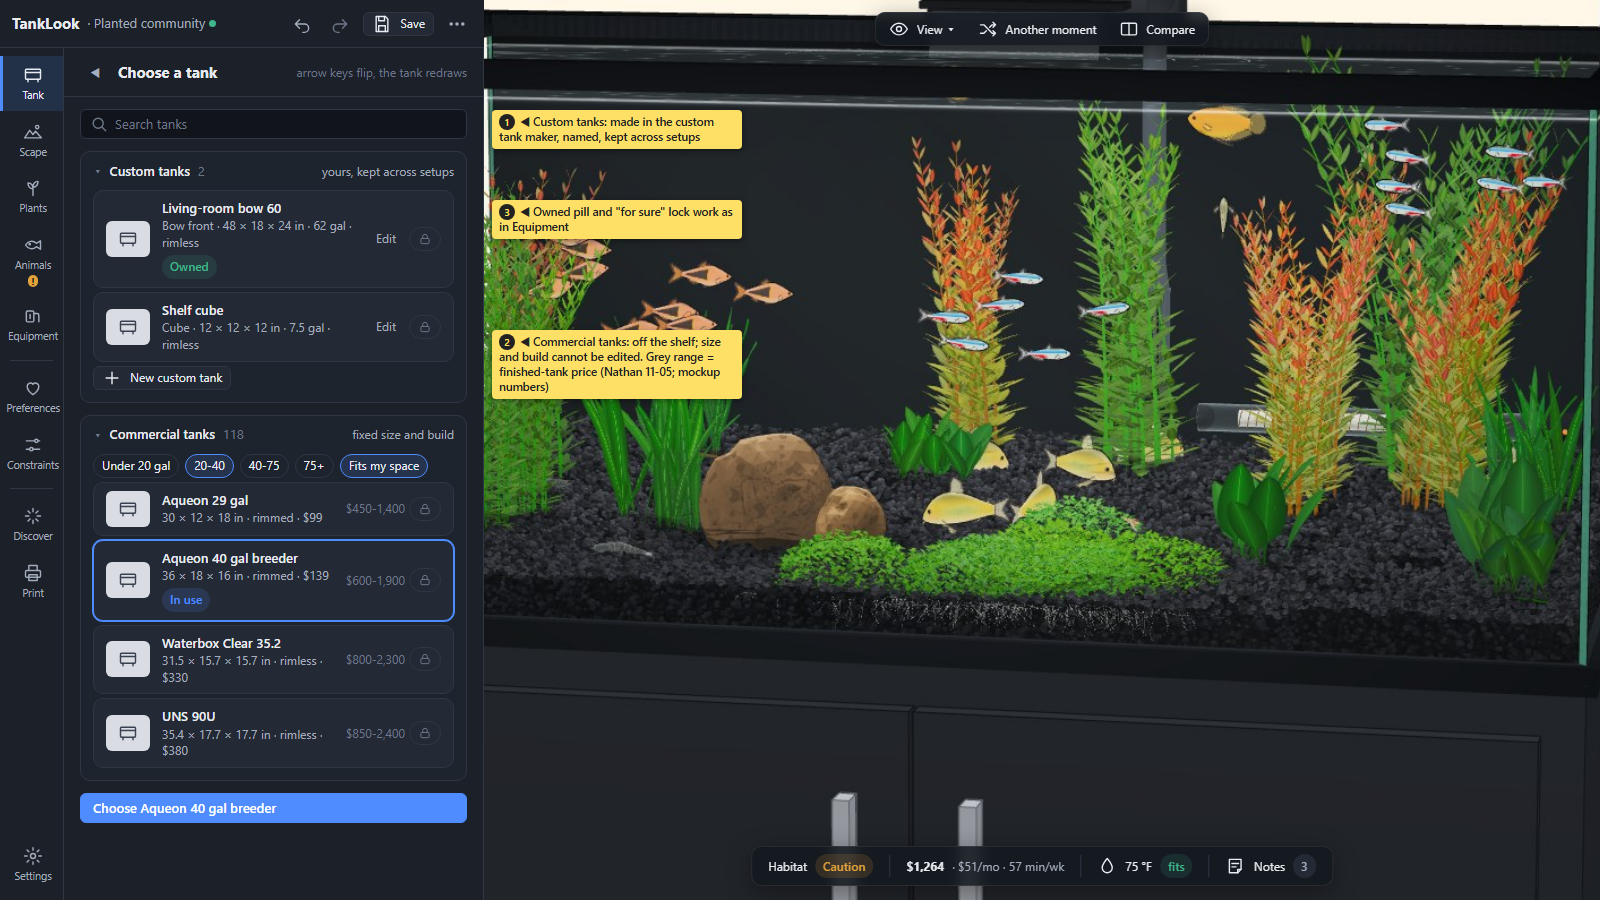
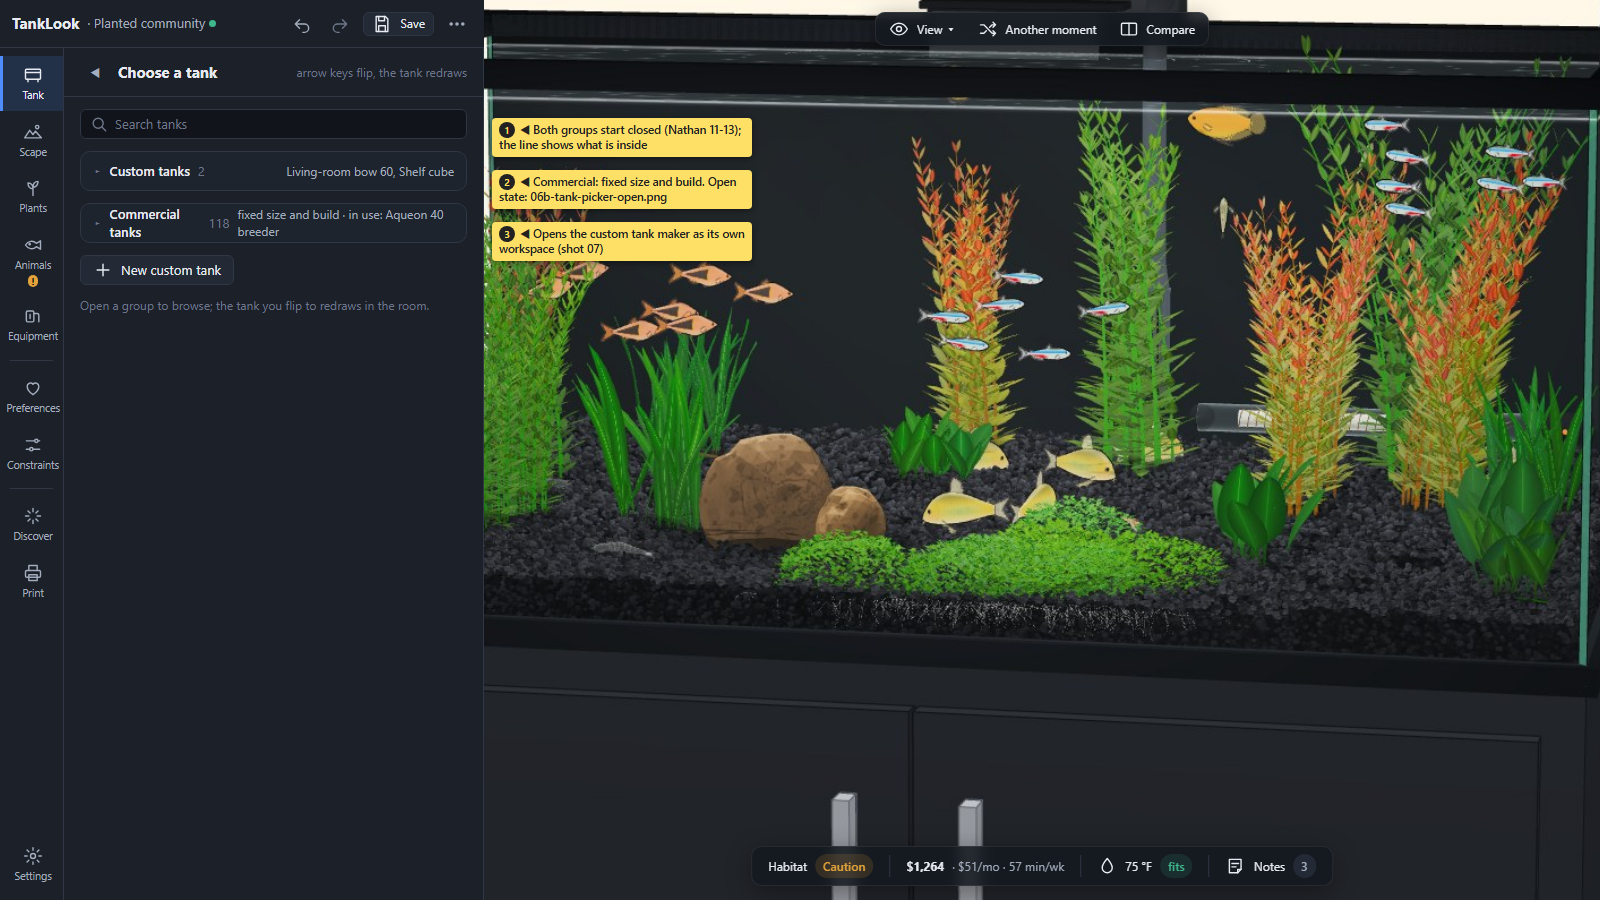
UI2: tank picker groups start closed; custom tank maker as its own workspace with price override (Nathan 11-13)
Shot 06 redone collapsed (open state kept as 06b); shot 07 redone as a separate workspace
with a real empty bow-tank render (render-empty-tank.mjs, dev server, not app code),
dimension labels, estimate with a how-line and Use my own price. Doc: maker row in 2a,
price home in 3, P9 maker scratch scene / priceUsd / estimate follow-up, decision 13.

diff --git a/research/design/ui2/07-custom-tank-maker.html b/research/design/ui2/07-custom-tank-maker.html
@@ -1,46 +1,61 @@
 <!doctype html>
-<html lang="en"><head><meta charset="utf-8"><title>UI2 mockup: custom tank maker</title>
+<html lang="en"><head><meta charset="utf-8"><title>UI2 mockup: custom tank maker (own workspace)</title>
 <link rel="stylesheet" href="tokens.css">
 <style>
-  .app { display: grid; height: 100vh; grid-template-columns: var(--rail-w) 420px 1fr; grid-template-rows: var(--header-h) 1fr; grid-template-areas: "head head view" "rail panel view"; }
-  .app > header { grid-area: head; } .app > .rail { grid-area: rail; } .app > .panel { grid-area: panel; } .app > .viewer { grid-area: view; }
-  .foot { display: flex; gap: var(--s2); padding: var(--s3) var(--s4); border-top: 1px solid var(--line); }
+  .ws { display: grid; height: 100vh; grid-template-columns: 400px 1fr; grid-template-rows: var(--header-h) 1fr; grid-template-areas: "bar bar" "panel view"; }
+  .wsbar { grid-area: bar; display: flex; align-items: center; gap: var(--s3); padding: 0 var(--s4); background: var(--bg-panel); border-bottom: 1px solid var(--line); }
+  .wsbar h1 { font-size: var(--fs-lg); margin: 0; }
+  .ws > .panel { grid-area: panel; }
+  .stage { grid-area: view; position: relative; background: #d9dce1 url(empty-bow-tank.jpg) center / 92% auto no-repeat; }
+  .dim { position: absolute; background: #1b2029; color: #fff; font: 600 13px/1 var(--font); padding: 5px 8px; border-radius: 4px; box-shadow: var(--shadow); white-space: nowrap; }
+  .dim small { color: var(--text-2); font-weight: 400; margin-left: 4px; }
+  .stats { position: absolute; left: 50%; bottom: 18px; transform: translateX(-50%); display: flex; gap: var(--s2); }
+  .stats .check { background: var(--glass); }
+  .price .row { grid-template-columns: 1fr auto; }
 </style></head>
 <body>
 <script src="icons.js"></script><script src="shell.js"></script>
-<div class="app" id="app"></div>
+<div class="ws" id="app"></div>
 <script>
 const sl = (l, v, p) => `<div class="row"><span class="lbl">${l}</span><input class="slider" type="range" value="${p}"><span class="val">${v}</span></div>`;
-document.getElementById('app').innerHTML = apphead() + rail('tank', {animals: '!'}) + `
+document.getElementById('app').innerHTML = `
+<div class="wsbar"><h1>Custom tank maker</h1><span class="hint">Your setup "Planted community" is not touched until you save</span><span style="flex:1"></span>
+  <button class="btn ghost">${I('eye')} Preview in my setup</button><button class="btn">Cancel</button><button class="btn">Save to my tanks</button><button class="btn primary">Save and use in this setup</button></div>
 <section class="panel">
-  <div class="sec-head"><button class="btn icon ghost sm" title="Back">&#9664;</button><h2>New custom tank</h2><span class="hint">started blank</span></div>
   <div class="sec-body">
-    <div class="row"><span class="lbl">Name</span><input class="input" value="Living-room bow 60" style="width:100%"><span></span></div>
+    <div class="row"><span class="lbl">Name</span><input class="input" value="Living-room bow 75" style="width:100%"><span></span></div>
     <div class="group open"><div class="gh">Shape</div><div class="gb">
       <div class="seg full"><button>Box</button><button class="on">Bow</button><button>Corner</button><button>Cube</button><button>More &#9662;</button></div>
     </div></div>
-    <div class="group open"><div class="gh">Size <span class="sum">62 gal &middot; about 690 lb filled</span></div><div class="gb">
-      ${sl('Length', '48 in', 58)}${sl('Depth', '18 in', 40)}${sl('Height', '24 in', 55)}${sl('Bow depth', '3 in', 30)}
+    <div class="group open"><div class="gh">Size <span class="sum">75 gal</span></div><div class="gb">
+      ${sl('Length', '48 in', 58)}${sl('Depth', '16 in', 36)}${sl('Height', '24 in', 55)}${sl('Bow depth', '3 in', 30)}
     </div></div>
-    <div class="group open"><div class="gh">Glass and rim</div><div class="gb">
-      <div class="row"><span class="lbl">Glass</span><div class="seg"><button>Float</button><button class="on">Low-iron</button></div><span></span></div>
+    <div class="group open"><div class="gh">Glass and rim <span class="sum">float &middot; rimmed</span></div><div class="gb">
+      <div class="row"><span class="lbl">Glass</span><div class="seg"><button class="on">Float</button><button>Low-iron</button></div><span></span></div>
       ${sl('Thickness', '3/8 in', 60)}
-      <div class="row"><span class="lbl">Rim</span><div class="seg"><button>Rimmed</button><button class="on">Rimless</button></div><span></span></div>
-      <div class="hint">48 x 24 in rimless needs at least 3/8 in glass.</div>
+      <div class="row"><span class="lbl">Rim</span><div class="seg"><button class="on">Rimmed</button><button>Rimless</button></div><span></span></div>
     </div></div>
-    <div class="card" style="grid-template-columns:1fr auto;align-items:center"><div><div class="t">Build cost estimate</div><div class="m">custom glass, low-iron, rimless</div></div><span class="big" style="font-size:var(--fs-lg)">$780</span></div>
-    <label class="row" style="grid-template-columns:auto 1fr"><span class="toggle on"></span><span>I own this tank</span></label>
+    <div class="group open price"><div class="gh">Price</div><div class="gb">
+      <div class="row"><span>Our estimate</span><span class="val">$380</span></div>
+      <div class="hint">How we got this: the typical price of a stock 75 gal tank. Not counted yet: bow front, glass thickness, low-iron, rimless.</div>
+      <label class="row" style="grid-template-columns:auto 1fr auto"><span class="toggle on"></span><span>Use my own price</span><span><input class="input num" value="520"><span class="unit">$</span></span></label>
+      <div class="hint">e.g. a glass shop quote or your DIY cost. Used everywhere (cost bar, shopping list, Print), marked "your figure".</div>
+    </div></div>
+    <label class="row" style="grid-template-columns:auto 1fr"><span class="toggle"></span><span>I own this tank</span></label>
   </div>
-  <div class="foot"><button class="btn primary" style="flex:1">Save to my tanks and use it</button><button class="btn">Cancel</button></div>
 </section>
-<main class="viewer">
-  <div class="ov" style="top:12px;left:50%;transform:translateX(-50%)">${toolbar()}</div>
-  <div class="ov" style="bottom:14px;left:50%;transform:translateX(-50%)">${checkbar({full: 1})}</div>
+<main class="stage">
+  <div class="dim" style="left:560px;top:700px">48 in <small>length</small></div>
+  <div class="dim" style="left:140px;top:450px">24 in <small>height</small></div>
+  <div class="dim" style="left:960px;top:610px">16 in <small>depth at centre</small></div>
+  <div class="dim" style="left:530px;top:322px">3 in <small>bow</small></div>
+  <div class="stats"><div class="check"><b>75 gal</b> <span style="color:var(--text-2)">gross &middot; about 68 gal of water</span></div><div class="check"><b>about 750 lb</b> <span style="color:var(--text-2)">filled</span></div><div class="check"><b>48 &times; 16 in</b> <span style="color:var(--text-2)">footprint</span></div></div>
 </main>`;
 </script>
 <div style="position:absolute;inset:0;pointer-events:none">
-  <div class="note" data-n="1" style="top:60px;left:492px;max-width:260px">&#9664; The one place a tank's shape and size are set. Started blank or from a commercial tank ("Make a custom tank from this")</div>
-  <div class="note" data-n="2" style="top:250px;left:492px;max-width:250px">&#9664; The tank in the view redraws as you drag (mockup shows a still)</div>
-  <div class="note" data-n="3" style="bottom:110px;left:492px;max-width:260px">&#9664; Saved to "my tanks" in this browser, kept across setups; each setup keeps its own copy</div>
+  <div class="note" data-n="1" style="top:58px;left:420px;max-width:300px">Its own workspace: an empty tank on a plain floor, just the geometry. The setup is untouched; Cancel leaves everything as it was</div>
+  <div class="note" data-n="2" style="top:58px;right:16px;max-width:280px">Optional: "Preview in my setup" shows it in your room for a moment, then comes back here (recommended)</div>
+  <div class="note" data-n="3" style="top:760px;left:420px;max-width:260px">&#9664; Estimate with a one-line "how", and your own price that wins everywhere</div>
+  <div class="note" data-n="4" style="bottom:66px;right:16px;max-width:240px">Real render from the app (empty bow tank); numbers are mockup figures</div>
 </div>
 </body></html>

diff --git a/research/design/ui2/06-tank-picker.html b/research/design/ui2/06-tank-picker.html
@@ -22,19 +22,10 @@ document.getElementById('app').innerHTML = apphead() + rail('tank', {animals: '!
   <div class="sec-head"><button class="btn icon ghost sm" title="Back to Tank">&#9664;</button><h2>Choose a tank</h2><span class="hint">arrow keys flip, the tank redraws</span></div>
   <div class="sec-body">
     <div class="input" style="display:flex;align-items:center;gap:6px;color:var(--text-3)">${I('search')} Search tanks</div>
-    <div class="group open"><div class="gh">Custom tanks <span class="n">2</span><span class="sum">yours, kept across setups</span></div><div class="gb">
-      ${tk('Living-room bow 60', 'Bow front &middot; 48 &times; 18 &times; 24 in &middot; 62 gal &middot; rimless', {pills: '<span class="pill ok">Owned</span>', right: '<button class="btn sm ghost">Edit</button>'})}
-      ${tk('Shelf cube', 'Cube &middot; 12 &times; 12 &times; 12 in &middot; 7.5 gal &middot; rimless', {right: '<button class="btn sm ghost">Edit</button>'})}
-      <button class="btn sm" style="justify-self:start">${I('plus')} New custom tank</button>
-    </div></div>
-    <div class="group open"><div class="gh">Commercial tanks <span class="n">118</span><span class="sum">fixed size and build</span></div><div class="gb">
-      <div style="display:flex;gap:6px;flex-wrap:wrap"><span class="chip">Under 20 gal</span><span class="chip on">20-40</span><span class="chip">40-75</span><span class="chip">75+</span><span class="chip on">Fits my space</span></div>
-      ${tk('Aqueon 29 gal', '30 &times; 12 &times; 18 in &middot; rimmed &middot; $99', {right: '<span class="hint">$450-1,400</span>'})}
-      ${tk('Aqueon 40 gal breeder', '36 &times; 18 &times; 16 in &middot; rimmed &middot; $139', {sel: 1, pills: '<span class="pill accent">In use</span>', right: '<span class="hint">$600-1,900</span>'})}
-      ${tk('Waterbox Clear 35.2', '31.5 &times; 15.7 &times; 15.7 in &middot; rimless &middot; $330', {right: '<span class="hint">$800-2,300</span>'})}
-      ${tk('UNS 90U', '35.4 &times; 17.7 &times; 17.7 in &middot; rimless &middot; $380', {right: '<span class="hint">$850-2,400</span>'})}
-    </div></div>
-    <button class="btn primary" style="justify-self:stretch">Choose Aqueon 40 gal breeder</button>
+    <div class="group"><div class="gh">Custom tanks <span class="n">2</span><span class="sum">Living-room bow 60, Shelf cube</span></div></div>
+    <div class="group"><div class="gh">Commercial tanks <span class="n">118</span><span class="sum">fixed size and build &middot; in use: Aqueon 40 breeder</span></div></div>
+    <button class="btn" style="justify-self:start">${I('plus')} New custom tank</button>
+    <div class="hint">Open a group to browse; the tank you flip to redraws in the room.</div>
   </div>
 </section>
 <main class="viewer">
@@ -43,8 +34,8 @@ document.getElementById('app').innerHTML = apphead() + rail('tank', {animals: '!
 </main>`;
 </script>
 <div style="position:absolute;inset:0;pointer-events:none">
-  <div class="note" data-n="1" style="top:110px;left:492px;max-width:250px">&#9664; Custom tanks: made in the custom tank maker, named, kept across setups</div>
-  <div class="note" data-n="2" style="top:330px;left:492px;max-width:250px">&#9664; Commercial tanks: off the shelf; size and build cannot be edited. Grey range = finished-tank price (Nathan 11-05; mockup numbers)</div>
-  <div class="note" data-n="3" style="top:200px;left:492px;max-width:250px">&#9664; Owned pill and "for sure" lock work as in Equipment</div>
+  <div class="note" data-n="1" style="top:118px;left:492px;max-width:260px">&#9664; Both groups start closed (Nathan 11-13); the line shows what is inside</div>
+  <div class="note" data-n="2" style="top:170px;left:492px;max-width:260px">&#9664; Commercial: fixed size and build. Open state: 06b-tank-picker-open.png</div>
+  <div class="note" data-n="3" style="top:222px;left:492px;max-width:260px">&#9664; Opens the custom tank maker as its own workspace (shot 07)</div>
 </div>
 </body></html>

diff --git a/research/design/ui2-screen-map.md b/research/design/ui2-screen-map.md
@@ -11,8 +11,8 @@ Design only, no app code. Built from `research/design/ui1-inventory.md` (UI1, bu
 | `research/screens/UI2/03-split-desktop.png` | Compare: two tanks, one shared control cluster over the seam, "Editing A / B / Both" in the panel, each tank its own check bar |
 | `research/screens/UI2/04-constraints-and-cost.png` | Constraints section open (the one home of every limit) with the Cost and time drawer open on the right |
 | `research/screens/UI2/05-equipment-heater.png` | Equipment > Heater: **I own** and **Buy** groups, one item locked "Use this one for sure" (Nathan 11-13) |
-| `research/screens/UI2/06-tank-picker.png` | Tank > Choose a tank: **Commercial tanks** and **Custom tanks** groups, "New custom tank" (Nathan 11-13) |
-| `research/screens/UI2/07-custom-tank-maker.png` | Custom tank maker: shape, size, glass, rim, name, Save to my tanks; the tank redraws live |
+| `research/screens/UI2/06-tank-picker.png` | Tank > Choose a tank: **Custom tanks** and **Commercial tanks** groups, both closed at first (Nathan 11-13); `06b-tank-picker-open.png` = the same with both open |
+| `research/screens/UI2/07-custom-tank-maker.png` | Custom tank maker as **its own workspace**: an empty tank on a plain floor (real render), dimension labels, gallons and filled weight, price estimate with "how" and your own price; the setup is untouched until Save |
 
 ## 1. Who and what for
 
@@ -42,7 +42,8 @@ Ideas (Discover, Suggest) are not a job of their own: they are a faster way to d
 | **Editor** | all | after Start; resume | header + rail + panel + viewer + check bar + drawer |
 | Header | J5 | always (top of the panel column) | TankLook, project name (click to rename), saved dot, Undo, Redo, Save, `...` = New / Open / Save as / Share link / Download |
 | Rail | J2 | always, also when the panel is folded | Tank, Scape, Plants, Animals, Equipment / Preferences, Constraints / Discover, Print / Settings (bottom): 9 sections + Settings |
-| Section **Tank** | J2 | rail | **Tank model**: either a **commercial tank** (catalogue product; shape, size, glass and rim fixed, shown read-only) or a **custom tank** (yours, from the custom tank maker). The picker (docked in the panel, live in the room) has two groups, Commercial tanks and Custom tanks (+ New custom tank); any tank row can carry the Owned pill and the "Use this one for sure" lock, as in Equipment. To change a product's size: "Make a custom tank from this" (a copy), never an edit of the product. **Stand** with I own / Buy groups. Then Sits on (floor / stand / my own furniture), Lid and top, Background, **Room** (wall, ceiling, person) |
+| Section **Tank** | J2 | rail | **Tank model**: either a **commercial tank** (catalogue product; shape, size, glass and rim fixed, shown read-only) or a **custom tank** (yours, from the custom tank maker). The picker (docked in the panel, live in the room) has two groups, Custom tanks and Commercial tanks, **both closed at first** (each header shows what is inside), plus New custom tank; any tank row can carry the Owned pill and the "Use this one for sure" lock, as in Equipment. To change a product's size: "Make a custom tank from this" (a copy), never an edit of the product. **Stand** with I own / Buy groups. Then Sits on (floor / stand / my own furniture), Lid and top, Background, **Room** (wall, ceiling, person) |
+| **Custom tank maker** (own workspace) | J2 | Tank > New custom tank, Edit on a custom tank, "Make a custom tank from this" on a commercial one | full-window workspace over the editor: an **empty tank on a plain floor** (no stand, gear, scape or room), dimension labels, gallons, filled weight, footprint. Name, shape, size, glass, rim, Price (estimate + one-line "how" + **Use my own price**), I own this tank. Cancel / Save to my tanks / Save and use in this setup; optional **Preview in my setup** (shows it in your room for a moment, then returns; recommended so the size can be judged against the room). The current setup is not edited while the maker is open |
 | Section **Scape** | J2 | rail | Substrate (type, blend, brush), Terrain (slopes, corners), Hardscape and Decor library, placed pieces |
 | Section **Plants** | J2 | rail | library (grayed by light), placed plants, growth over time |
 | Section **Animals** | J2 | rail | search, filters ("Fits this tank" on by default in Guided), stocking list with counts, Water look (level, tint) |
@@ -143,6 +144,7 @@ Rule (Nathan 2026-11-05, kept): **a shortcut may open the home; it may not hold 
 | Look / style direction | quick prefs (2), hidden Style select | Preferences | Discover uses it; the scene's own materials stay hand edits in their sections (a different thing: what is built, not what you like) |
 | Tank shape, size, glass, rim | picker, L / H / D boxes, shape buttons, glass and rim rows (today editable on any tank, products included) | **Custom tank maker** (only for custom tanks; a commercial tank's are fixed) | Tank model card (read-only spec line), header name, Print |
 | Which tank | picker, Suggest space, Set my space | Tank section > Tank model (Commercial / Custom) | Suggest (filters by Constraints > Space) |
+| Custom tank price | engine estimate only (`demand/engine.ts:107-109`: catalogue price of a stock tank this size, else a per-gallon band) | Custom tank maker > Price: estimate shown with its "how"; **Use my own price** (quote / DIY cost) saved with the custom tank | Cost bar and drawer, shopping list, Print: the user's price wins everywhere, marked "your figure" |
 | Camera | View sliders, Lighting "Look from above / Straight on", double-click | View (and double-click in the tank) | - |
 | Units, rules mode, graphics | header, header, View popover | Settings | - |
 
@@ -206,7 +208,7 @@ The new shell lives beside the old one behind `?ui=2` (own `index2.html` entry, 
 | P3 Item / plant edits and plant gate | `panels.ts` 1620-1950 | `scene/itemEdit.ts`, `ui/logic/plantGate.ts` | M |
 | P4 Gear choice application and conversions | `techMenu.ts` | `scene/techEdit.ts`; one `units.ts` for every `toF` / `fromUnits` / `fmtHeight` | L |
 | P8 Gear model: per category an owned list (in the brief), the item in use, and a "use for sure" lock per item; Discover / Suggest / generator read the lock (must use) and the owned list (preferred, $0). Folds `ownedGear.ts` `applyOwned` / `syncEquipment` and the owned flags on scene gear into it; old saves migrate | `ownedGear.ts`, `scene/tech`, Discover locks | `scene/gearOwn.ts` | M |
-| P9 Custom tank library: a custom-tank spec (shape, L / H / D, shape dims, glass, rim, name) saved per browser across setups (LS `tanklook.customTanks`, like the scene library); a setup holds its own copy plus the library id and version. Library edit: setups keep their copy and show "Updated in my tanks: use the new version?". Library delete: setups keep their copy ("Save to my tanks again"). Share link / file carry the copy. Product tanks become read-only (P1's rules apply only in the maker). **Migration:** a saved scene whose dimensions differ from its product, or that has no product, gets an auto-named custom tank on load (e.g. "Custom 36 x 18 x 16 in (from Aqueon 40 breeder)"), added to the library and referenced | `panels.ts` `setTank` / `shapeDims`, `tankPick.ts`, `scene/` tank | `scene/customTank.ts` | M |
+| P9 Custom tank library: a custom-tank spec (shape, L / H / D, shape dims, glass, rim, name) saved per browser across setups (LS `tanklook.customTanks`, like the scene library); a setup holds its own copy plus the library id and version. Library edit: setups keep their copy and show "Updated in my tanks: use the new version?". Library delete: setups keep their copy ("Save to my tanks again"). Share link / file carry the copy. Product tanks become read-only (P1's rules apply only in the maker). **Migration:** a saved scene whose dimensions differ from its product, or that has no product, gets an auto-named custom tank on load (e.g. "Custom 36 x 18 x 16 in (from Aqueon 40 breeder)"), added to the library and referenced. **Maker:** its own workspace with its own scratch scene (empty tank, plain floor); the setup's Store is not touched until Save, Cancel discards the scratch scene; Preview swaps the tank into the setup's view without an undo entry and swaps back. **Price:** the spec carries an optional `priceUsd` (the user's own price); the demand engine uses it as the tank row price when present (marked as the user's figure), otherwise today's estimate. **Engine follow-up (not now):** the estimate should count glass thickness, low-iron, rimless and shape (bow, corner, ...), not just gallons | `panels.ts` `setTank` / `shapeDims`, `tankPick.ts`, `scene/` tank | `scene/customTank.ts` | M |
 | P5 One home per limit in the data: profile from LS `tanklook.demand` into the brief (except experience, which stays per browser: P10); room temp stored once; migrate old saves | `demandPanel.ts`, `scene/tech.ts`, brief | `scene/brief.ts` | M |
 | P10 One experience model: delete brief `preferences.experience` and `layout.expertise` as stored values; every consumer (`whyAnimal` gating, starter / Another moment stocking, Suggest ranking, `experienceNote`, `skillMul`, losses) takes the per-area `skill` from one `experienceOf(area)` read. **Migration:** a saved profile with any non-zero `skill` keeps it (it is the more detailed answer); otherwise a scene's `preferences.experience` sets every area to its value, once, on load; old share links still read `preferences.experience` as a fallback for one release | `scene/brief.ts`, `scene/layout`, `demand/engine.ts`, `demand/suggest.ts`, `demandPanel.ts` | `demand/experience.ts` | M |
 | P6 Habitat helpers (`bar`, `topBy`, `tileState`, ...) | `fullnessTile.ts` | `ui/logic/habitat.ts` | S |
@@ -255,7 +257,7 @@ The old shell is switched to call these as they land, so both shells share one c
 | 10 | Order: engine pulls P1-P7 first, then shell steps 1-12 (P1-P10); freeze old-shell UI requests from approval (§8)? | Yes. |
 | 11 | R7, the Habitat check name: keep "Habitat check" in the new check bar? | Keep; the drawer title can carry the longer "Habitat check: is it good for the animals?". |
 | 12 | Own / buy / lock (Nathan 11-13, shot 05): "I own" and "Buy" groups per category, an independent "Use this one for sure" lock, no My gear tab, "No new equipment" in Constraints. Confirm the shot matches what you meant? | Yes (already his call; the shot is the check). |
-| 13 | Tanks (Nathan 11-13, shots 01, 06, 07): commercial tanks fixed, custom tanks from a maker saved across setups; a setup keeps its own copy when the library tank is edited or deleted; old scenes with hand-edited product dims become auto-named custom tanks? | Yes to all. |
+| 13 | Tanks (Nathan 11-13, shots 01, 06, 07): commercial tanks fixed; picker groups start closed; custom tanks from a maker that opens as **its own workspace** with an empty tank (setup untouched until Save; Cancel leaves everything as it was), with "Preview in my setup" as an optional step; custom tank price = estimate with a "how" line, or your own price used everywhere; library saved across setups, each setup keeps its own copy; old scenes with hand-edited product dims become auto-named custom tanks? | Yes to all, including Preview in my setup (the empty-tank view cannot show whether it suits the room). |
 | 14 | Experience (Nathan asked what it affects): today two settings (brief 0-2: animal graying, starter stocking, Suggest; profile per area: difficulty bar, animal warnings, monthly losses) that can disagree. Merge into **per-area levels** set by one answer in Constraints ("More detail" for per-area), stored per browser, read by every consumer? | Yes: per-area keeps the real difference between keeping fish, plants and saltwater; one answer keeps it a single click for most people. |
 
 Lane note: HANDOFF.md not edited (brief: commit only this lane's files); the coordinator adds the dated line.
